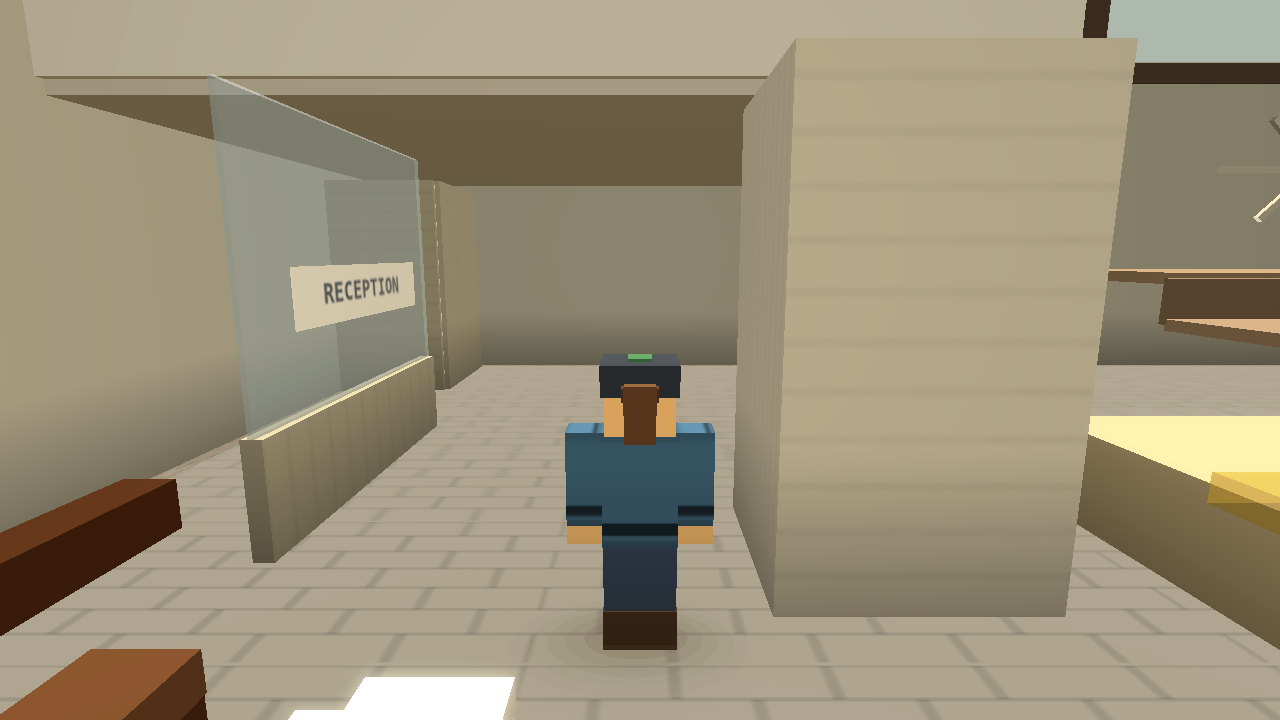
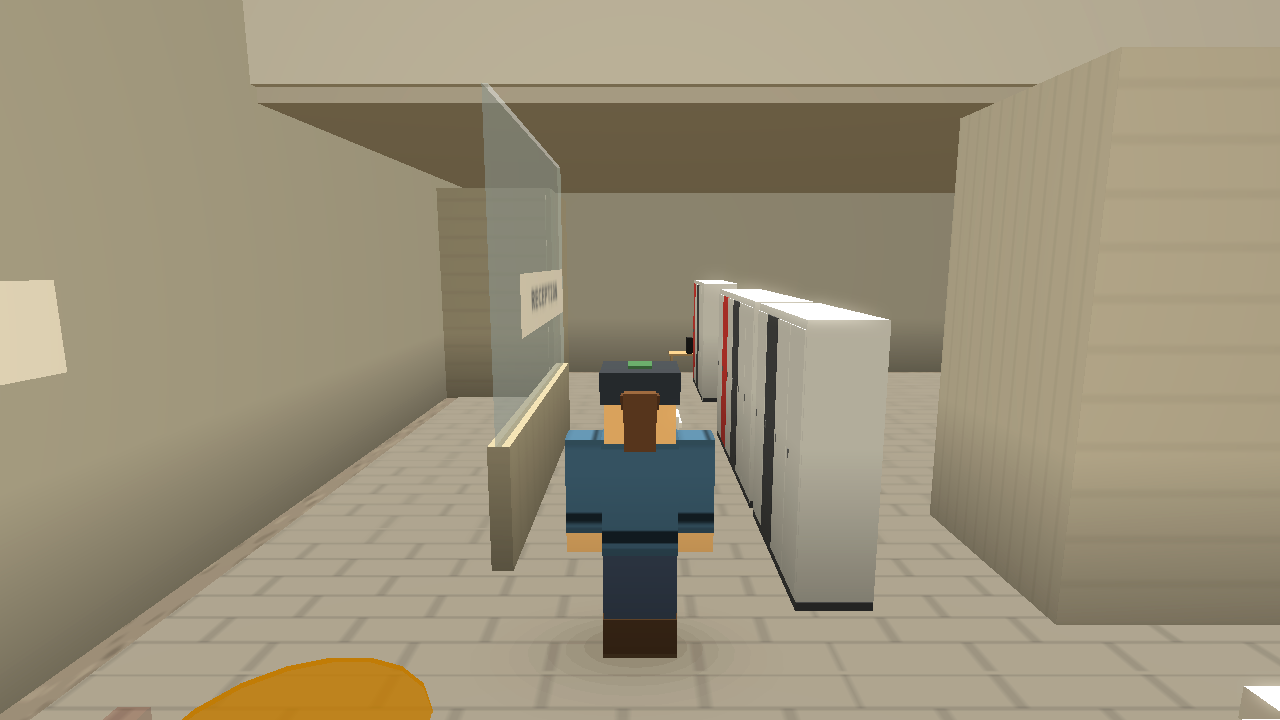
F02-B: incheckat reviewpaket renderat från 119bc33 (14 kameror)
Claude-Session: https://claude.ai/code/session_01RBDjv5xAUC4NuuvYQvQjGc

diff --git a/docs/visual-gate/pack/index.html b/docs/visual-gate/pack/index.html
@@ -1,15 +1,15 @@
-<!doctype html><meta charset="utf-8"><title>UBRF screenshot-pack 7a95f0a</title>
+<!doctype html><meta charset="utf-8"><title>UBRF screenshot-pack 119bc33</title>
 <style>body{font:14px system-ui;margin:1.5rem;max-width:1400px}section{border-top:1px solid #ccc;padding:1rem 0}.par{display:grid;grid-template-columns:1fr 1fr;gap:1rem}img{max-width:100%;border:1px solid #999}figure{margin:0 0 .5rem}figcaption,.meta{font-size:12px;color:#444}table{margin-top:.5rem;border-collapse:collapse}th,td{text-align:left;padding:.2rem .6rem;vertical-align:top;border:1px solid #ddd}.gap{color:#a00}code{font-size:12px}</style>
 <h1>UBRF — Visual Fidelity Gate, screenshot-pack</h1>
-<p>Head <code>7a95f0a8cf15b2c17dcf3267739114f27423b205</code> · renderad 2026-09-04T06:58:49.822Z · 13 kameror · figuren dold i 0.</p>
+<p>Head <code>119bc3331ea873db8dc37f3b78e5d0dbf23c2bbb</code> · renderad 2026-09-04T07:41:50.402Z · 14 kameror · figuren dold i 0.</p>
 <p><b>Statuskedja:</b> IMPLEMENTED → AUTOMATED_GREEN → VISUAL_PACK_READY → CHATGPT_VISUAL_PASS → READY_FOR_PRODUCT_ACCEPTANCE → PRODUCT_ACCEPTED. Det här paketet är <b>VISUAL_PACK_READY</b> som mest. Ingen automation sätter en visuell status; grön CI är inte visual fidelity. Se docs/VISUAL-FIDELITY-GATE.md.</p>
-<nav><a href="#STALL-ANKOMST">STALL-ANKOMST</a> · <a href="#STALL-ENTRE">STALL-ENTRE</a> · <a href="#STALL-UPPEHALL">STALL-UPPEHALL</a> · <a href="#STALL-TEORISAL">STALL-TEORISAL</a> · <a href="#STALL-SADELKAMMARE">STALL-SADELKAMMARE</a> · <a href="#STALL-GANG-A">STALL-GANG-A</a> · <a href="#HASTPASSAGE">HASTPASSAGE</a> · <a href="#RIDHUS-ENTRE">RIDHUS-ENTRE</a> · <a href="#RIDHUS-SKAPKORRIDOR">RIDHUS-SKAPKORRIDOR</a> · <a href="#ARENA-A">ARENA-A</a> · <a href="#ARENA-C">ARENA-C</a> · <a href="#LAKTARE">LAKTARE</a> · <a href="#C-BLOCK-OVRE">C-BLOCK-OVRE</a></nav>
+<nav><a href="#STALL-ANKOMST">STALL-ANKOMST</a> · <a href="#STALL-ENTRE">STALL-ENTRE</a> · <a href="#STALL-UPPEHALL">STALL-UPPEHALL</a> · <a href="#STALL-UPPEHALL-SOFFA">STALL-UPPEHALL-SOFFA</a> · <a href="#STALL-TEORISAL">STALL-TEORISAL</a> · <a href="#STALL-SADELKAMMARE">STALL-SADELKAMMARE</a> · <a href="#STALL-GANG-A">STALL-GANG-A</a> · <a href="#HASTPASSAGE">HASTPASSAGE</a> · <a href="#RIDHUS-ENTRE">RIDHUS-ENTRE</a> · <a href="#RIDHUS-SKAPKORRIDOR">RIDHUS-SKAPKORRIDOR</a> · <a href="#ARENA-A">ARENA-A</a> · <a href="#ARENA-C">ARENA-C</a> · <a href="#LAKTARE">LAKTARE</a> · <a href="#C-BLOCK-OVRE">C-BLOCK-OVRE</a></nav>
 <section id="STALL-ANKOMST">
 <h2>STALL-ANKOMST — Stallhuset entré från gården (exteriör)</h2>
 <p>Grusplanen norr om stallet, samma ansats som spelaren kommer från: blicken söderut mot klubbgaveln med förstukvisten och entrédörren</p>
 <div class="par">
   <div><h3>Referens</h3><figure class="txt"><figcaption>references/buildings/stall/stall-fasad-04.jpg</figcaption></figure><figure class="txt"><figcaption>references/buildings/stall/stall-entre-01.jpg</figcaption></figure><figure class="txt"><figcaption>references/buildings/stall/stall-entre-03.jpg</figcaption></figure><figure class="txt"><figcaption>references/buildings/stall/stall-entre-06.jpg</figcaption></figure><figure class="txt"><figcaption>references/buildings/stall/stall-entre-15-dorren.jpg</figcaption></figure><figure class="txt"><figcaption>references/buildings/stall/stall-entre-16-runda-fonstren.jpg</figcaption></figure></div>
-  <div><h3>Implementation @ <code>7a95f0a</code></h3><img src="STALL-ANKOMST.png" alt="">
+  <div><h3>Implementation @ <code>119bc33</code></h3><img src="STALL-ANKOMST.png" alt="">
     <p class="meta">spelare [161.6,131,0] · kamera [160.1,1.7,132.5] · tonade väggar 0 · siktprov: <b>synlig</b></p></div>
 </div>
 <table><tr><th>Mismatch-status (ChatGPT)</th><td><b>CHATGPT_VISUAL_PASS</b> på <code>588359194009f0722244830577d48a4201898f28</code> av ChatGPT senior visual review 2026-09-04 06:57 (runda 4)</td></tr>
@@ -22,7 +22,7 @@
 <p>Inne i uppehållsrummets östdel i ögonhöjd, blicken norrut mot den låsta fasadens entrédörr mitt på gaveln</p>
 <div class="par">
   <div><h3>Referens</h3><figure class="txt"><figcaption>references/buildings/stall/stall-entre-15-dorren.jpg</figcaption></figure><figure class="txt"><figcaption>references/buildings/stall/stall-entre-16-runda-fonstren.jpg</figcaption></figure></div>
-  <div><h3>Implementation @ <code>7a95f0a</code></h3><img src="STALL-ENTRE.png" alt="">
+  <div><h3>Implementation @ <code>119bc33</code></h3><img src="STALL-ENTRE.png" alt="">
     <p class="meta">spelare [8.3,66.95,0] · kamera [10.1,1.7,64.55] · tonade väggar 1 · siktprov: <b>synlig</b></p></div>
 </div>
 <table><tr><th>Mismatch-status (ChatGPT)</th><td><b>CHATGPT_VISUAL_PASS</b> på <code>588359194009f0722244830577d48a4201898f28</code> av ChatGPT senior visual review 2026-09-04 06:57 (runda 4)</td></tr>
@@ -35,46 +35,59 @@
 <p>Uppehållsrummet från södra änden (vid lobbyn) norrut genom hela rummet</p>
 <div class="par">
   <div><h3>Referens</h3><figure class="txt"><figcaption>references/buildings/stall/stall-inne-01-uppehallsrummet.jpg</figcaption></figure><figure class="txt"><figcaption>references/buildings/stall/stall-inne-02-pentryt.jpg</figcaption></figure></div>
-  <div><h3>Implementation @ <code>7a95f0a</code></h3><img src="STALL-UPPEHALL.png" alt="">
+  <div><h3>Implementation @ <code>119bc33</code></h3><img src="STALL-UPPEHALL.png" alt="">
     <p class="meta">spelare [4,61.55,0] · kamera [4,2.25,58.22] · tonade väggar 0 · siktprov: <b>synlig</b></p></div>
 </div>
 <table><tr><th>Mismatch-status (ChatGPT)</th><td><b>MISMATCH</b> på <code>588359194009f0722244830577d48a4201898f28</code> av ChatGPT senior visual review 2026-09-04 06:57 (runda 4)</td></tr>
 <tr><th>Ska synas (ramkontrakt)</th><td>Rummets hela längd (10 m) i ögonhöjd: västväggen till vänster, öppningen mot östdelen (uppehallsrum_o) till höger utan vägg emellan, planens slutna symbolruta till höger, gaveln med entrén längst bort</td></tr>
 <tr><th>Mismatch</th><td>Avsiktligt MISMATCH: rummets saknade visuella identitet är F02-B-möblering (#76), inte ett F02-A-topologifel. Inget PASS fejkas; #80 omprövar när #76 integrerats.</td></tr>
-<tr><th>REFERENCE GAP</th><td>möbler (F02-B) saknas ännu — inte ett fel i F02-A</td></tr></table>
+<tr><th>REFERENCE GAP</th><td>var i rummet soffgruppen står (vilket valvfönster): ASSUMPTION i F02-B, förankrad i det södra valvfönstret; bildens dörr till vänster/fönster till höger avgör inte entydigt</td></tr></table>
+</section>
+<section id="STALL-UPPEHALL-SOFFA">
+<h2>STALL-UPPEHALL-SOFFA — Uppehållsrummets soffhörna</h2>
+<p>Fotots vinkel (stall-inne-01): från rummets östra del snett mot sydvästra hörnet — soffgruppen vid västväggen, träponnyn, klockan, växten, fotoväggen. Explicit kamera; figuren till vänster om blicklinjen.</p>
+<div class="par">
+  <div><h3>Referens</h3><figure class="txt"><figcaption>references/buildings/stall/stall-inne-01-uppehallsrummet.jpg</figcaption></figure></div>
+  <div><h3>Implementation @ <code>119bc33</code></h3><img src="STALL-UPPEHALL-SOFFA.png" alt="">
+    <p class="meta">spelare [4,62.9,0] · kamera [4.7,1.6,65] · tonade väggar 0 · siktprov: <b>synlig</b></p></div>
+</div>
+<table><tr><th>Mismatch-status (ChatGPT)</th><td><b>EJ_GRANSKAD</b></td></tr>
+<tr><th>Ska synas (ramkontrakt)</th><td>Två svarta skinnsoffor i vinkel kring två låga svarta bord, den rosa träponnyn med sadel, rund klocka, krukväxt och inramade foton på pärlsponten, valvfönstret i västväggen — samma objekt som stall-inne-01; hur gruppen sitter i förhållande till fönstret är den öppna frågan</td></tr>
+<tr><th>Mismatch</th><td>—</td></tr>
+<tr><th>REFERENCE GAP</th><td>var i rummet gruppen står och vid vilket valvfönster: ASSUMPTION (F02-B) — fotots ordning dörr till vänster / klocka / växt / fotovägg / valvfönster till höger / ponny går inte att lägga entydigt mot den låsta fasadens två valvfönster (y 61,35 och 67,35) och rummets sydvägg y 60,15; se F02-B-INREDNINGSMATRIS § Uppehållsrummet</td></tr></table>
 </section>
 <section id="STALL-TEORISAL">
 <h2>STALL-TEORISAL — Teorisal</h2>
 <p>Innanför teorisalens dörr (västväggen), blicken österut genom salen</p>
 <div class="par">
   <div><h3>Referens</h3><figure class="txt"><figcaption>references/buildings/stall/stall-inne-04-teorisalen.jpg</figcaption></figure></div>
-  <div><h3>Implementation @ <code>7a95f0a</code></h3><img src="STALL-TEORISAL.png" alt="">
+  <div><h3>Implementation @ <code>119bc33</code></h3><img src="STALL-TEORISAL.png" alt="">
     <p class="meta">spelare [12.5,65.65,0] · kamera [9.17,2.25,65.65] · tonade väggar 0 · siktprov: <b>synlig</b></p></div>
 </div>
 <table><tr><th>Mismatch-status (ChatGPT)</th><td><b>EJ_GRANSKAD</b></td></tr>
 <tr><th>Ska synas (ramkontrakt)</th><td>Salens tre väggar (x 11,2 / 17,3, N 5,6) och dörröppningen i västväggen; rummets djup 6,1 m österut</td></tr>
 <tr><th>Mismatch</th><td>—</td></tr>
-<tr><th>REFERENCE GAP</th><td>möbler (F02-B) saknas ännu</td></tr></table>
+<tr><th>REFERENCE GAP</th><td>—</td></tr></table>
 </section>
 <section id="STALL-SADELKAMMARE">
 <h2>STALL-SADELKAMMARE — Sadelkammare</h2>
 <p>Inne i sadelkammaren, blicken österut genom rummet mot östväggen (x 15,5)</p>
 <div class="par">
   <div><h3>Referens</h3><figure class="txt"><figcaption>references/buildings/stall/stall-inne-03-sadelkammaren.jpg</figcaption></figure></div>
-  <div><h3>Implementation @ <code>7a95f0a</code></h3><img src="STALL-SADELKAMMARE.png" alt="">
-    <p class="meta">spelare [11.5,61.28,0] · kamera [8.17,2.25,61.28] · tonade väggar 0 · siktprov: <b>synlig</b></p></div>
+  <div><h3>Implementation @ <code>119bc33</code></h3><img src="STALL-SADELKAMMARE.png" alt="">
+    <p class="meta">spelare [11.5,61.28,0] · kamera [8.17,2.25,61.28] · tonade väggar 1 · siktprov: <b>synlig</b></p></div>
 </div>
 <table><tr><th>Mismatch-status (ChatGPT)</th><td><b>EJ_GRANSKAD</b></td></tr>
 <tr><th>Ska synas (ramkontrakt)</th><td>Rummets östra hälft i ögonhöjd: östväggen (x 15,5), halvväggen i söder (N 9,1), norrväggen mot teorisalen; inga möbler ännu</td></tr>
 <tr><th>Mismatch</th><td>—</td></tr>
-<tr><th>REFERENCE GAP</th><td>sadelhängare och inredning (F02-B) saknas ännu</td></tr></table>
+<tr><th>REFERENCE GAP</th><td>—</td></tr></table>
 </section>
 <section id="STALL-GANG-A">
 <h2>STALL-GANG-A — Stallgång A</h2>
 <p>I gång A, blicken norrut mot klubbdelen — boxfronter på båda sidor</p>
 <div class="par">
   <div><h3>Referens</h3><figure class="txt"><figcaption>references/buildings/stall/stall-inne-05-stallgangen.jpg</figcaption></figure><figure class="txt"><figcaption>references/buildings/stall/stall-inne-08-breda-gangen.jpg</figcaption></figure></div>
-  <div><h3>Implementation @ <code>7a95f0a</code></h3><img src="STALL-GANG-A.png" alt="">
+  <div><h3>Implementation @ <code>119bc33</code></h3><img src="STALL-GANG-A.png" alt="">
     <p class="meta">spelare [5.69,12.8,0] · kamera [5.69,2.25,9.47] · tonade väggar 0 · siktprov: <b>synlig</b></p></div>
 </div>
 <table><tr><th>Mismatch-status (ChatGPT)</th><td><b>EJ_GRANSKAD</b></td></tr>
@@ -87,7 +100,7 @@
 <p>Från gång A:s östra kant i ögonhöjd, blicken västerut genom brottet i västra boxraden in i hästgången mot ridhuset</p>
 <div class="par">
   <div><h3>Referens</h3><figure class="txt"><figcaption>references/plans/SATELLIT-HASTGANG-2026-08-30.md</figcaption></figure></div>
-  <div><h3>Implementation @ <code>7a95f0a</code></h3><img src="HASTPASSAGE.png" alt="">
+  <div><h3>Implementation @ <code>119bc33</code></h3><img src="HASTPASSAGE.png" alt="">
     <p class="meta">spelare [4.99,29.55,0] · kamera [6.79,1.7,30.45] · tonade väggar 0 · siktprov: <b>synlig</b></p></div>
 </div>
 <table><tr><th>Mismatch-status (ChatGPT)</th><td><b>EJ_GRANSKAD</b></td></tr>
@@ -97,36 +110,36 @@
 </section>
 <section id="RIDHUS-ENTRE">
 <h2>RIDHUS-ENTRE — Ridhuset entré</h2>
-<p>Huvudentrén → norrut över entré/reception: öppen hall, receptionens glas till höger (= golden view RIDHUS-V1)</p>
+<p>Från huvudentréns innerdörr norrut över entré/reception i ögonhöjd: öppen hall, receptionens glas till höger (= golden view RIDHUS-V1). Explicit kamera i hallen — följkameran bakom figuren hamnar annars på läktarens bänkrader (F02-B) söder om hallen.</p>
 <div class="par">
   <div><h3>Referens</h3><figure class="txt"><figcaption>references/buildings/ridhus/ridhus-klubb-01-omkladningsgangen.jpg</figcaption></figure><figure class="txt"><figcaption>references/buildings/ridhus/ridhus-klubb-15-korridoren-mot-glasrummen.jpg</figcaption></figure><figure class="txt"><figcaption>references/buildings/ridhus/ridhus-klubb-02-glasrummen.jpg</figcaption></figure></div>
-  <div><h3>Implementation @ <code>7a95f0a</code></h3><img src="RIDHUS-ENTRE.png" alt="">
-    <p class="meta">spelare [1.3,66.98,0] · kamera [1.3,2.25,63.65] · tonade väggar 0 · siktprov: <b>synlig</b></p></div>
+  <div><h3>Implementation @ <code>119bc33</code></h3><img src="RIDHUS-ENTRE.png" alt="">
+    <p class="meta">spelare [1.4,69.58,0] · kamera [1.2,1.7,66.68] · tonade väggar 0 · siktprov: <b>synlig</b></p></div>
 </div>
 <table><tr><th>Mismatch-status (ChatGPT)</th><td><b>EJ_GRANSKAD</b></td></tr>
-<tr><th>Ska synas (ramkontrakt)</th><td>Öppen hall utan rumslådor norrut från huvudentrén, ENTRÉ-plattan, receptionens låga bröstning + glas till höger, toaletternas volym i bortre hörnet</td></tr>
+<tr><th>Ska synas (ramkontrakt)</th><td>Öppen hall utan rumslådor norrut från huvudentrén, ENTRÉ-plattan, receptionens låga bröstning + glas till höger, toaletternas volym i bortre hörnet; skåpraden (F02-B) bortom glaset</td></tr>
 <tr><th>Mismatch</th><td>—</td></tr>
 <tr><th>REFERENCE GAP</th><td>receptionsglasets väderstreck (GEOMETRY_REFERENCE_GAP)<br>huvudentréns läge: CONTRADICTION plan/fasad, fasaden vinner</td></tr></table>
 </section>
 <section id="RIDHUS-SKAPKORRIDOR">
 <h2>RIDHUS-SKAPKORRIDOR — Skåpkorridor</h2>
-<p>Den öppna gången där skåpen står (planens x 4,2–5,7), blicken norrut mot toaletterna</p>
+<p>Gången mellan receptionsglaset (x 2,2) och skåpraden i planens skåpremsa (x 4,2–5,7), blicken norrut mot valvfönstret med stövelbänken (= ridhus-klubb-01 fast åt andra hållet)</p>
 <div class="par">
   <div><h3>Referens</h3><figure class="txt"><figcaption>references/buildings/ridhus/ridhus-klubb-16-skaprummet-med-pelaren.jpg</figcaption></figure><figure class="txt"><figcaption>references/buildings/ridhus/ridhus-klubb-18-skapraden-narbild.jpg</figcaption></figure><figure class="txt"><figcaption>references/buildings/ridhus/ridhus-klubb-20-grona-skapen.jpg</figcaption></figure><figure class="txt"><figcaption>references/buildings/ridhus/ridhus-klubb-21-grona-skapen-vinkel.jpg</figcaption></figure></div>
-  <div><h3>Implementation @ <code>7a95f0a</code></h3><img src="RIDHUS-SKAPKORRIDOR.png" alt="">
-    <p class="meta">spelare [4.95,67.98,0] · kamera [4.95,2.25,64.65] · tonade väggar 0 · siktprov: <b>synlig</b></p></div>
+  <div><h3>Implementation @ <code>119bc33</code></h3><img src="RIDHUS-SKAPKORRIDOR.png" alt="">
+    <p class="meta">spelare [3.2,67.98,0] · kamera [3.2,2.25,64.65] · tonade väggar 1 · siktprov: <b>synlig</b></p></div>
 </div>
 <table><tr><th>Mismatch-status (ChatGPT)</th><td><b>EJ_GRANSKAD</b></td></tr>
-<tr><th>Ska synas (ramkontrakt)</th><td>Fri sikt norrut längs planens skåpremsa (x 4,2–5,7) utan korridorväggar; schaktvolymen till höger; toaletterna längst bort</td></tr>
+<tr><th>Ska synas (ramkontrakt)</th><td>Fri sikt norrut i gången utan korridorväggar: receptionens bröstning + glas till vänster, skåpbankarna (F02-B) till höger med fronten mot gången, bordet med de två stolarna i gången, stövelbänken under gavelns valvfönster längst bort; schaktvolymen bakom skåpen</td></tr>
 <tr><th>Mismatch</th><td>—</td></tr>
-<tr><th>REFERENCE GAP</th><td>skåpen är möbler (F02-B) och saknas ännu; korridorväggarna är återkallade (Spatial Canon v2) — här ska INGEN vägg synas</td></tr></table>
+<tr><th>REFERENCE GAP</th><td>skåpradens början/slut: planens fyra luckor olästa — bankarnas y-lägen är ASSUMPTION (F02-B); vilken sida av glaset receptionen ligger på är F02-A:s GEOMETRY_REFERENCE_GAP</td></tr></table>
 </section>
 <section id="ARENA-A">
 <h2>ARENA-A — Arena A-sida</h2>
 <p>På banan nära A, blicken söderut mot kortsidan vid A</p>
 <div class="par">
   <div><h3>Referens</h3><figure class="txt"><figcaption>references/buildings/ridhus/ridhus-inne-23-kortsidan-vid-a.jpg</figcaption></figure><figure class="txt"><figcaption>references/buildings/ridhus/ridhus-inne-11-ridbanan.jpg</figcaption></figure></div>
-  <div><h3>Implementation @ <code>7a95f0a</code></h3><img src="ARENA-A.png" alt="">
+  <div><h3>Implementation @ <code>119bc33</code></h3><img src="ARENA-A.png" alt="">
     <p class="meta">spelare [14.4,6.15,0] · kamera [14.4,2.25,9.48] · tonade väggar 0 · siktprov: <b>synlig</b></p></div>
 </div>
 <table><tr><th>Mismatch-status (ChatGPT)</th><td><b>EJ_GRANSKAD</b></td></tr>
@@ -139,7 +152,7 @@
 <p>På banan nära C, blicken norrut mot C-blocket, glasbandet och trapporna</p>
 <div class="par">
   <div><h3>Referens</h3><figure class="txt"><figcaption>references/buildings/ridhus/ridhus-inne-01-glasrummen.jpg</figcaption></figure><figure class="txt"><figcaption>references/buildings/ridhus/ridhus-inne-06-laktaren-och-glasrummet.jpg</figcaption></figure><figure class="txt"><figcaption>references/buildings/ridhus/ridhus-inne-27-glasrummet-inifran-banan.jpg</figcaption></figure></div>
-  <div><h3>Implementation @ <code>7a95f0a</code></h3><img src="ARENA-C.png" alt="">
+  <div><h3>Implementation @ <code>119bc33</code></h3><img src="ARENA-C.png" alt="">
     <p class="meta">spelare [14.4,57.68,0] · kamera [14.4,2.25,54.35] · tonade väggar 0 · siktprov: <b>synlig</b></p></div>
 </div>
 <table><tr><th>Mismatch-status (ChatGPT)</th><td><b>CHATGPT_VISUAL_PASS</b> på <code>588359194009f0722244830577d48a4201898f28</code> av ChatGPT senior visual review 2026-09-04 06:57 (runda 4)</td></tr>
@@ -152,8 +165,8 @@
 <p>På läktardäcket, blicken söderut längs läktaren med banan till vänster</p>
 <div class="par">
   <div><h3>Referens</h3><figure class="txt"><figcaption>references/buildings/ridhus/ridhus-inne-14-laktaren.jpg</figcaption></figure><figure class="txt"><figcaption>references/buildings/ridhus/ridhus-inne-41-banan-fran-laktaren.jpg</figcaption></figure><figure class="txt"><figcaption>references/buildings/ridhus/ridhus-inne-40-domartornet-pa-laktaren.jpg</figcaption></figure><figure class="txt"><figcaption>references/buildings/ridhus/ridhus-inne-43-laktaren-vid-h.jpg</figcaption></figure></div>
-  <div><h3>Implementation @ <code>7a95f0a</code></h3><img src="LAKTARE.png" alt="">
-    <p class="meta">spelare [2.3,38.92,0.8] · kamera [2.3,3.05,42.24] · tonade väggar 0 · siktprov: <b>synlig</b></p></div>
+  <div><h3>Implementation @ <code>119bc33</code></h3><img src="LAKTARE.png" alt="">
+    <p class="meta">spelare [2.3,38.92,1.4] · kamera [2.3,3.65,42.24] · tonade väggar 0 · siktprov: <b>synlig</b></p></div>
 </div>
 <table><tr><th>Mismatch-status (ChatGPT)</th><td><b>EJ_GRANSKAD</b></td></tr>
 <tr><th>Ska synas (ramkontrakt)</th><td>Plankdäcket, den mörka fronten med ljus kappregel och räcket till vänster, banan bortom, domarbåset på däcket, läktarväggen till höger</td></tr>
@@ -165,7 +178,7 @@
 <p>Från nedersta bänkraden vid klockan (som ridhus-inne-01): raderna, de två loppen, klockväggen, glasbandet och övre gången</p>
 <div class="par">
   <div><h3>Referens</h3><figure class="txt"><figcaption>references/buildings/ridhus/ridhus-inne-01-glasrummen.jpg</figcaption></figure><figure class="txt"><figcaption>references/buildings/ridhus/ridhus-inne-07-laktartrappstegen.jpg</figcaption></figure><figure class="txt"><figcaption>references/buildings/ridhus/ridhus-klubb-10-overvaningens-gang.jpg</figcaption></figure><figure class="txt"><figcaption>references/buildings/ridhus/granskning-2026-08-31/C-kortandan-och-kafeet.md</figcaption></figure></div>
-  <div><h3>Implementation @ <code>7a95f0a</code></h3><img src="C-BLOCK-OVRE.png" alt="">
+  <div><h3>Implementation @ <code>119bc33</code></h3><img src="C-BLOCK-OVRE.png" alt="">
     <p class="meta">spelare [15.8,66.28,1.12] · kamera [15.8,3.37,62.95] · tonade väggar 0 · siktprov: <b>synlig</b></p></div>
 </div>
 <table><tr><th>Mismatch-status (ChatGPT)</th><td><b>CHATGPT_VISUAL_PASS</b> på <code>588359194009f0722244830577d48a4201898f28</code> av ChatGPT senior visual review 2026-09-04 06:57 (runda 4)</td></tr>
